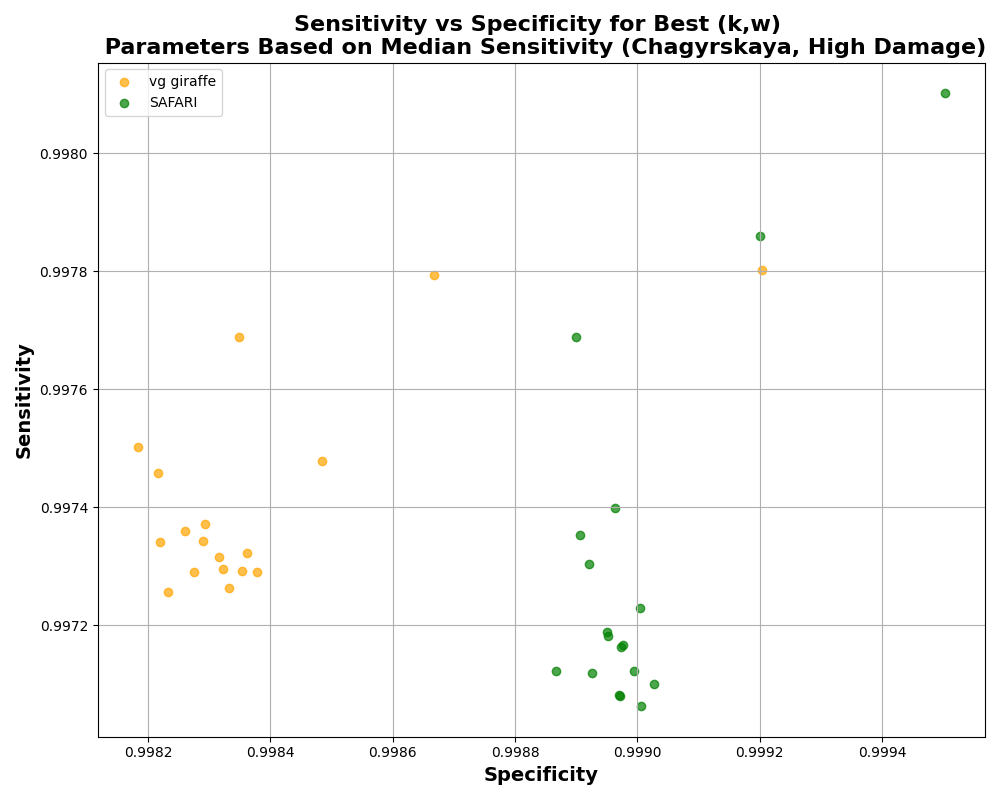
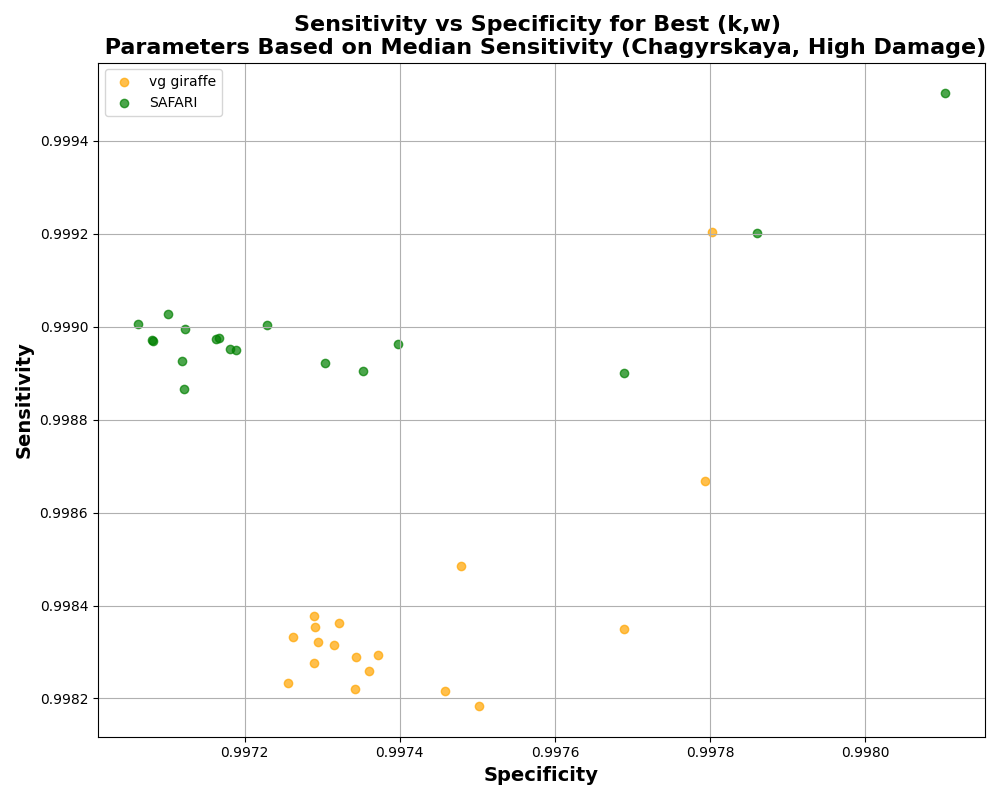
Update

diff --git a/linear_experiment/human_mito/stat_results/plot_svs_high.py b/linear_experiment/human_mito/stat_results/plot_svs_high.py
@@ -18,6 +18,7 @@ def plot_best_sensitivity(data_path):
     # Identify the best (k,w) combination for each tool based on median sensitivity
     best_sensitivity = medians_sensitivity.loc[medians_sensitivity.groupby('tool')['sensitivity'].idxmax()]
     best_sensitivity_data = filtered_data.merge(best_sensitivity[['tool', 'k', 'w']], on=['tool', 'k', 'w'])
+    print(best_sensitivity_data)
 
     # Plotting
     plt.figure(figsize=(10, 8))
@@ -42,7 +43,7 @@ def plot_best_sensitivity(data_path):
     # Plot each tool with its assigned color
     for tool in tools:
         tool_data = best_sensitivity_data[best_sensitivity_data['tool'] == tool]
-        plt.scatter(tool_data['specificity'], tool_data['sensitivity'], label=f'{tool}', color=tool_colors[tool], alpha=0.7)
+        plt.scatter(tool_data['sensitivity'], tool_data['specificity'], label=f'{tool}', color=tool_colors[tool], alpha=0.7)
 
     plt.title('Sensitivity vs Specificity for Best (k,w) \n Parameters Based on Median Sensitivity (' + sys.argv[3] + ", High Damage)", fontsize=16, fontweight='bold')
     plt.xlabel('Specificity', fontsize=14, fontweight='bold')

diff --git a/linear_experiment/human_mito/stat_results/plot_svs_none.py b/linear_experiment/human_mito/stat_results/plot_svs_none.py
@@ -42,7 +42,7 @@ def plot_best_sensitivity(data_path):
     # Plot each tool with its assigned color
     for tool in tools:
         tool_data = best_sensitivity_data[best_sensitivity_data['tool'] == tool]
-        plt.scatter(tool_data['specificity'], tool_data['sensitivity'], label=f'{tool}', color=tool_colors[tool], alpha=0.7)
+        plt.scatter(tool_data['sensitivity'], tool_data['specificity'], label=f'{tool}', color=tool_colors[tool], alpha=0.7)
 
     plt.title('Sensitivity vs Specificity for Best (k,w) \n Parameters Based on Median Sensitivity (' + sys.argv[3] + ", No Damage)", fontsize=16, fontweight='bold')
     plt.xlabel('Specificity', fontsize=14, fontweight='bold')
